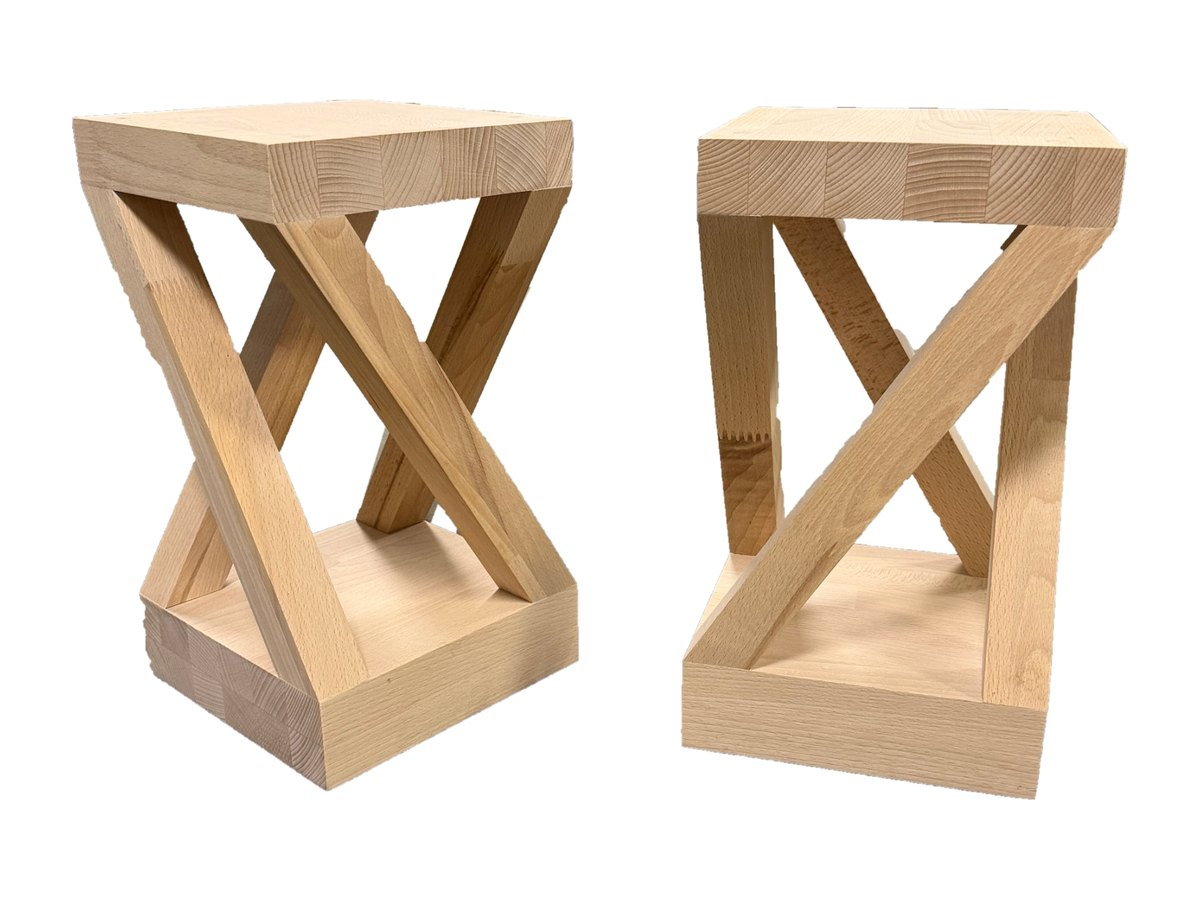
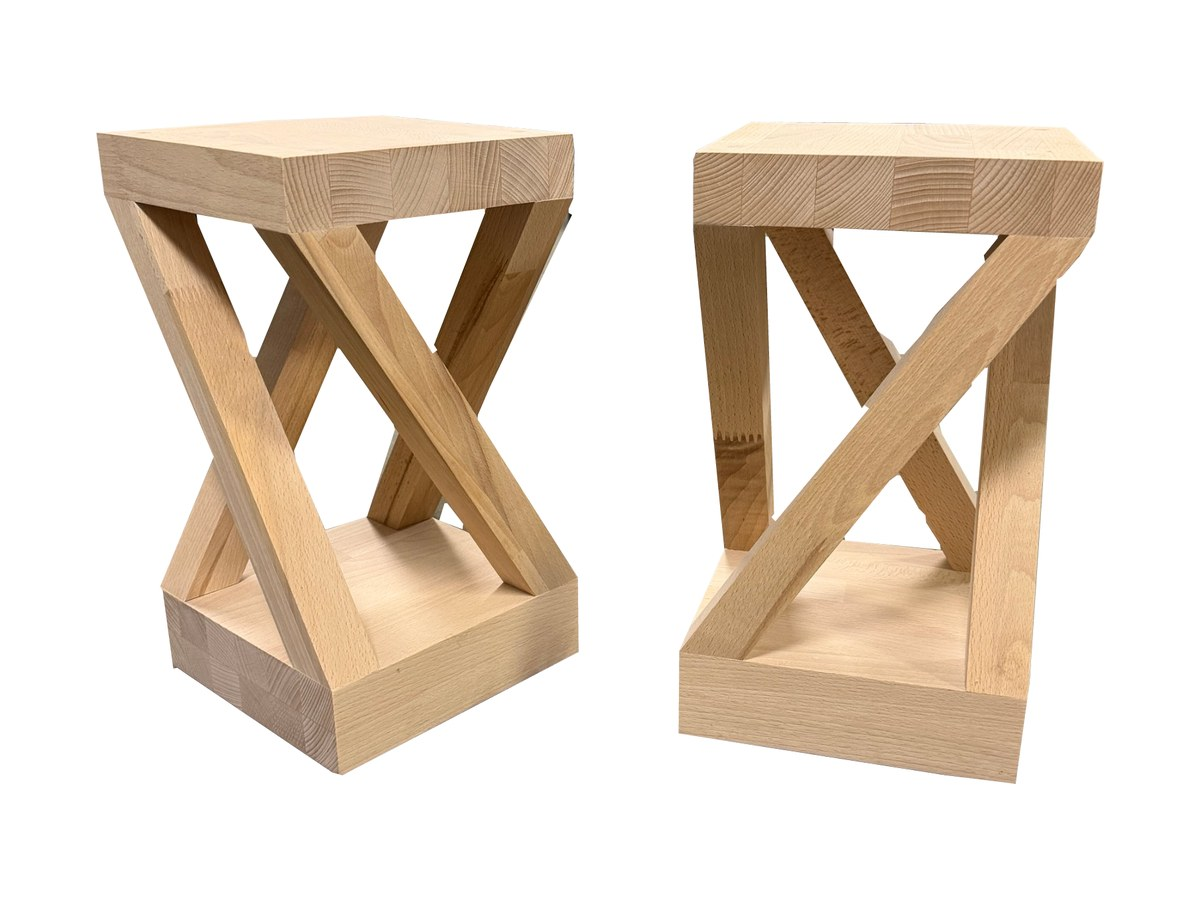
Clessidra: scontorno della scheda rifatto con bordi dritti; foto originali per Extrasound
Claude-Session: https://claude.ai/code/session_015wvKsictn1Z6RtpeGcB9hV

diff --git a/en/speaker-stand-height.html b/en/speaker-stand-height.html
@@ -71,7 +71,7 @@
     <ul class="picks" id="picks"></ul>
     <div class="c-cta"><a class="btn" id="out-mail" href="mailto:info@fabrizioberlati.com">Ask me for a made-to-measure stand</a><a class="link" href="speaker-stands.html">All stands</a></div>
   </div>
-  <script type="application/json" id="stands-data">[{"name": "Extrasound Clessidra", "url": "speaker-stand-clessidra.html", "img": "../images/clessidra-card.jpg", "h": 39, "note": "Solid beech · €200 a pair"}, {"name": "Extrasound Rigatini", "url": "speaker-stand-rigatini.html", "img": "../images/rigatini-card.jpg", "h": 50.3, "note": "Solid beech · €250 a pair"}, {"name": "Stand Stile Pannello", "url": "speaker-stand-stile-pannello.html", "img": "../images/pannello-card.jpg?v=2", "h": 54.6, "note": "Solid beech · €300 a pair"}, {"name": "Wood Brick", "url": "speaker-stand-wood-brick.html", "img": "../images/woodbrick-card.jpg", "h": 55, "note": "Solid wood · €300 a pair"}, {"name": "Art Triangle", "url": "speaker-stand-art-triangle.html", "img": "../images/art-triangle-card.jpg?v=4", "h": 60.3, "note": "Solid beech · €300 a pair"}, {"name": "Extrasound Stylus", "url": "speaker-stand-stylus.html", "img": "../images/stylus-card.jpg", "h": 61, "note": "Solid doussié · from €280 a pair"}, {"name": "ESSE2", "url": "speaker-stand-esse2.html", "img": "../images/esse2-card.jpg", "h": 64, "note": "Beech, for KEF LS50 · on request"}, {"name": "Modern Art Grey Buttons", "url": "speaker-stand-modern-art.html", "img": "../images/modern-art-card.jpg?v=3", "h": 65.6, "note": "Solid beech · €300 a pair"}, {"name": "Extrasound Tree", "url": "speaker-stand-tree.html", "img": "../images/tree-card.jpg?v=2", "h": 71.5, "note": "Solid beech · €350 a pair"}, {"name": "Listelli Rado", "url": "speaker-stand-listelli-rado.html", "img": "../images/listelli-rado-card.jpg?v=2", "h": 75, "note": "Solid beech · €200 a pair"}, {"name": "Extrasound Ground", "url": "speaker-stand-ground.html", "img": "../images/ground-card.jpg?v=6", "h": 24, "note": "Low plywood stands · from €250", "low": true}]</script>
+  <script type="application/json" id="stands-data">[{"name": "Extrasound Clessidra", "url": "speaker-stand-clessidra.html", "img": "../images/clessidra-card.jpg?v=2", "h": 39, "note": "Solid beech · €200 a pair"}, {"name": "Extrasound Rigatini", "url": "speaker-stand-rigatini.html", "img": "../images/rigatini-card.jpg", "h": 50.3, "note": "Solid beech · €250 a pair"}, {"name": "Stand Stile Pannello", "url": "speaker-stand-stile-pannello.html", "img": "../images/pannello-card.jpg?v=2", "h": 54.6, "note": "Solid beech · €300 a pair"}, {"name": "Wood Brick", "url": "speaker-stand-wood-brick.html", "img": "../images/woodbrick-card.jpg", "h": 55, "note": "Solid wood · €300 a pair"}, {"name": "Art Triangle", "url": "speaker-stand-art-triangle.html", "img": "../images/art-triangle-card.jpg?v=4", "h": 60.3, "note": "Solid beech · €300 a pair"}, {"name": "Extrasound Stylus", "url": "speaker-stand-stylus.html", "img": "../images/stylus-card.jpg", "h": 61, "note": "Solid doussié · from €280 a pair"}, {"name": "ESSE2", "url": "speaker-stand-esse2.html", "img": "../images/esse2-card.jpg", "h": 64, "note": "Beech, for KEF LS50 · on request"}, {"name": "Modern Art Grey Buttons", "url": "speaker-stand-modern-art.html", "img": "../images/modern-art-card.jpg?v=3", "h": 65.6, "note": "Solid beech · €300 a pair"}, {"name": "Extrasound Tree", "url": "speaker-stand-tree.html", "img": "../images/tree-card.jpg?v=2", "h": 71.5, "note": "Solid beech · €350 a pair"}, {"name": "Listelli Rado", "url": "speaker-stand-listelli-rado.html", "img": "../images/listelli-rado-card.jpg?v=2", "h": 75, "note": "Solid beech · €200 a pair"}, {"name": "Extrasound Ground", "url": "speaker-stand-ground.html", "img": "../images/ground-card.jpg?v=6", "h": 24, "note": "Low plywood stands · from €250", "low": true}]</script>
 </section>
 <div class="art">
   <h2>The rule: the tweeter at ear height.</h2>

diff --git a/guida-altezza-stand-diffusori.html b/guida-altezza-stand-diffusori.html
@@ -71,7 +71,7 @@
     <ul class="picks" id="picks"></ul>
     <div class="c-cta"><a class="btn" id="out-mail" href="mailto:info@fabrizioberlati.com">Chiedimi uno stand su misura</a><a class="link" href="stand-per-diffusori.html">Tutti gli stand</a></div>
   </div>
-  <script type="application/json" id="stands-data">[{"name": "Extrasound Clessidra", "url": "stand-clessidra.html", "img": "images/clessidra-card.jpg", "h": 39, "note": "Faggio massello · 200 € la coppia"}, {"name": "Extrasound Rigatini", "url": "stand-rigatini.html", "img": "images/rigatini-card.jpg", "h": 50.3, "note": "Faggio massello · 250 € la coppia"}, {"name": "Stand Stile Pannello", "url": "stand-stile-pannello.html", "img": "images/pannello-card.jpg?v=2", "h": 54.6, "note": "Faggio massello · 300 € la coppia"}, {"name": "Wood Brick", "url": "stand-wood-brick.html", "img": "images/woodbrick-card.jpg", "h": 55, "note": "Legno massello · 300 € la coppia"}, {"name": "Art Triangle", "url": "stand-art-triangle.html", "img": "images/art-triangle-card.jpg?v=4", "h": 60.3, "note": "Faggio massello · 300 € la coppia"}, {"name": "Extrasound Stylus", "url": "stand-stylus.html", "img": "images/stylus-card.jpg", "h": 61, "note": "Doussiè massello · da 280 € la coppia"}, {"name": "ESSE2", "url": "stand-esse2.html", "img": "images/esse2-card.jpg", "h": 64, "note": "Faggio, per KEF LS50 · su richiesta"}, {"name": "Modern Art Grey Buttons", "url": "stand-modern-art.html", "img": "images/modern-art-card.jpg?v=3", "h": 65.6, "note": "Faggio massello · 300 € la coppia"}, {"name": "Extrasound Tree", "url": "stand-tree.html", "img": "images/tree-card.jpg?v=2", "h": 71.5, "note": "Faggio massello · 350 € la coppia"}, {"name": "Listelli Rado", "url": "stand-listelli-rado.html", "img": "images/listelli-rado-card.jpg?v=2", "h": 75, "note": "Faggio massello · 200 € la coppia"}, {"name": "Extrasound Ground", "url": "stand-ground.html", "img": "images/ground-card.jpg?v=6", "h": 24, "note": "Stand bassi in multistrato · da 250 €", "low": true}]</script>
+  <script type="application/json" id="stands-data">[{"name": "Extrasound Clessidra", "url": "stand-clessidra.html", "img": "images/clessidra-card.jpg?v=2", "h": 39, "note": "Faggio massello · 200 € la coppia"}, {"name": "Extrasound Rigatini", "url": "stand-rigatini.html", "img": "images/rigatini-card.jpg", "h": 50.3, "note": "Faggio massello · 250 € la coppia"}, {"name": "Stand Stile Pannello", "url": "stand-stile-pannello.html", "img": "images/pannello-card.jpg?v=2", "h": 54.6, "note": "Faggio massello · 300 € la coppia"}, {"name": "Wood Brick", "url": "stand-wood-brick.html", "img": "images/woodbrick-card.jpg", "h": 55, "note": "Legno massello · 300 € la coppia"}, {"name": "Art Triangle", "url": "stand-art-triangle.html", "img": "images/art-triangle-card.jpg?v=4", "h": 60.3, "note": "Faggio massello · 300 € la coppia"}, {"name": "Extrasound Stylus", "url": "stand-stylus.html", "img": "images/stylus-card.jpg", "h": 61, "note": "Doussiè massello · da 280 € la coppia"}, {"name": "ESSE2", "url": "stand-esse2.html", "img": "images/esse2-card.jpg", "h": 64, "note": "Faggio, per KEF LS50 · su richiesta"}, {"name": "Modern Art Grey Buttons", "url": "stand-modern-art.html", "img": "images/modern-art-card.jpg?v=3", "h": 65.6, "note": "Faggio massello · 300 € la coppia"}, {"name": "Extrasound Tree", "url": "stand-tree.html", "img": "images/tree-card.jpg?v=2", "h": 71.5, "note": "Faggio massello · 350 € la coppia"}, {"name": "Listelli Rado", "url": "stand-listelli-rado.html", "img": "images/listelli-rado-card.jpg?v=2", "h": 75, "note": "Faggio massello · 200 € la coppia"}, {"name": "Extrasound Ground", "url": "stand-ground.html", "img": "images/ground-card.jpg?v=6", "h": 24, "note": "Stand bassi in multistrato · da 250 €", "low": true}]</script>
 </section>
 <div class="art">
   <h2>La regola: il tweeter all'altezza delle orecchie.</h2>

diff --git a/stand-per-diffusori.html b/stand-per-diffusori.html
@@ -49,7 +49,7 @@
       <span class="more">Scopri il Tree</span></div>
     </a>
     <a class="card" href="stand-clessidra.html">
-      <div class="pic"><img src="images/clessidra-card.jpg" alt="Coppia di stand bassi Extrasound Clessidra in faggio massello" loading="lazy"></div>
+      <div class="pic"><img src="images/clessidra-card.jpg?v=2" alt="Coppia di stand bassi Extrasound Clessidra in faggio massello" loading="lazy"></div>
       <div class="txt">
       <h3>Stand per diffusori Extrasound Clessidra</h3>
       <p>Stand bassi, alti 39 cm, in faggio massello: le gambe inclinate si incrociano e disegnano una clessidra.</p>

diff --git a/en/speaker-stands.html b/en/speaker-stands.html
@@ -49,7 +49,7 @@
       <span class="more">See the Tree</span></div>
     </a>
     <a class="card" href="speaker-stand-clessidra.html">
-      <div class="pic"><img src="../images/clessidra-card.jpg" alt="Pair of low Extrasound Clessidra stands in solid Beech" loading="lazy"></div>
+      <div class="pic"><img src="../images/clessidra-card.jpg?v=2" alt="Pair of low Extrasound Clessidra stands in solid Beech" loading="lazy"></div>
       <div class="txt">
       <h3>Extrasound Clessidra speaker stands</h3>
       <p>Low stands, 39 cm tall, in solid Beech: the tilted legs cross and form an hourglass.</p>

diff --git a/_strumenti/build_guida.py b/_strumenti/build_guida.py
@@ -23,7 +23,7 @@ def fcta(t):
             + wa_svg + '333 418 8754</a></div></div>')
 
 STANDS = [
- dict(name='Extrasound Clessidra', url='stand-clessidra.html', img='images/clessidra-card.jpg', h=39, note='Faggio massello · 200 € la coppia'),
+ dict(name='Extrasound Clessidra', url='stand-clessidra.html', img='images/clessidra-card.jpg?v=2', h=39, note='Faggio massello · 200 € la coppia'),
  dict(name='Extrasound Rigatini', url='stand-rigatini.html', img='images/rigatini-card.jpg', h=50.3, note='Faggio massello · 250 € la coppia'),
  dict(name='Stand Stile Pannello', url='stand-stile-pannello.html', img='images/pannello-card.jpg?v=2', h=54.6, note='Faggio massello · 300 € la coppia'),
  dict(name='Wood Brick', url='stand-wood-brick.html', img='images/woodbrick-card.jpg', h=55, note='Legno massello · 300 € la coppia'),
